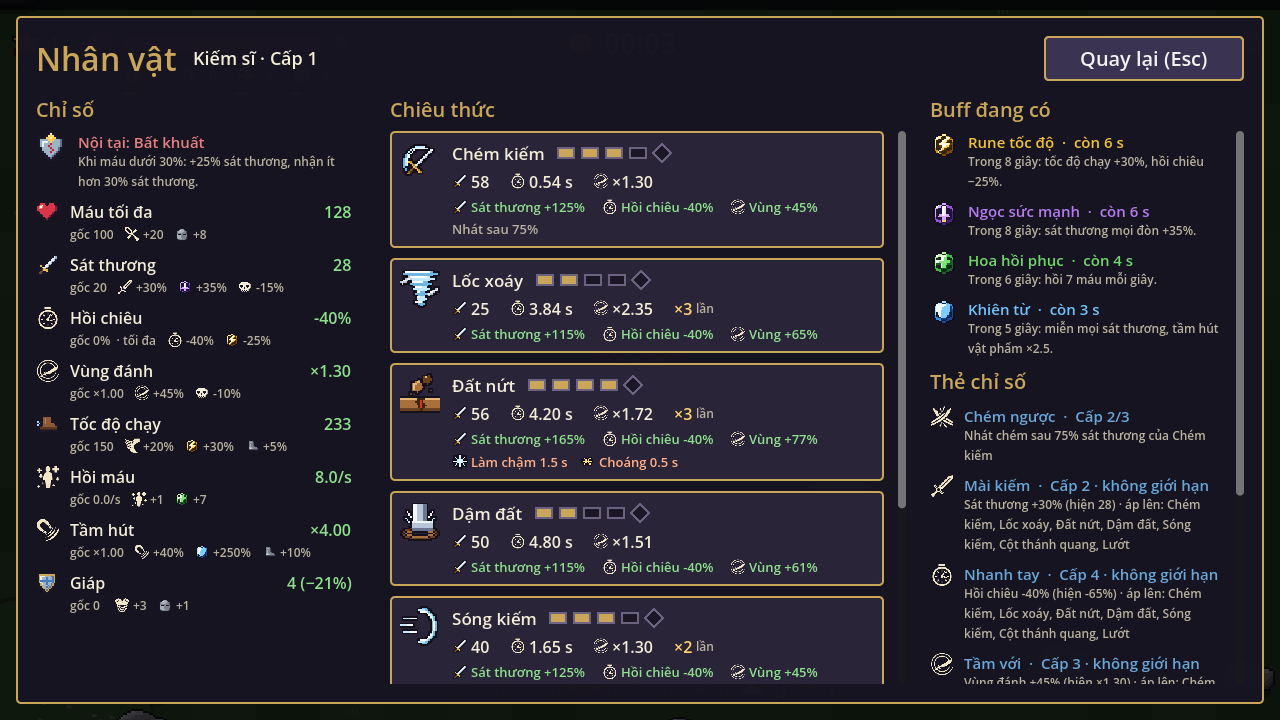
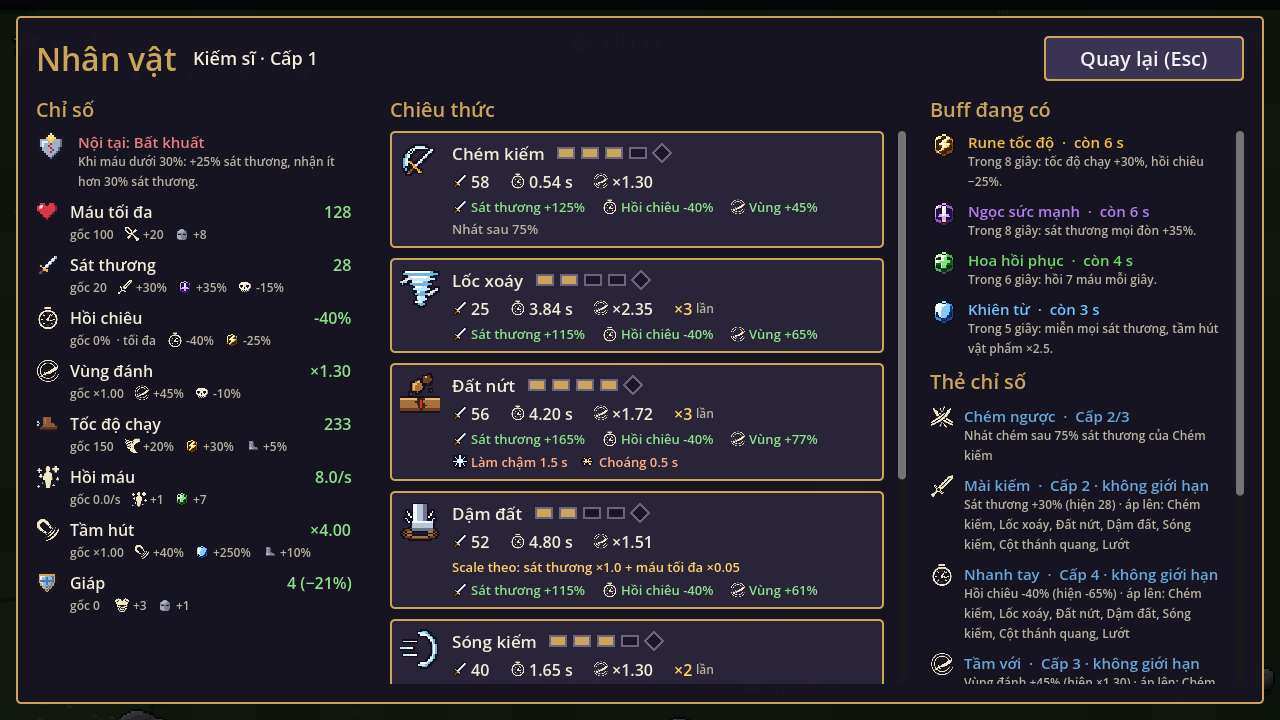
feat(balance): skills can scale on any stat ("scale")
User 2026-11-21: skills should scale on damage, armor, hp or speed,
not only their own numbers (after Brotato's per-weapon scaling). A
skill's "scale" {stat: coefficient} sums stat x coefficient as its base
damage before its own cards; without it, damage x damage_mul as before.
First set: Dậm đất +5% max hp, Cột thánh quang +1 per armor, Lướt
+0.03 per move speed; Băng ngục +1 per armor, Bão tuyết +4% max hp.
The character sheet shows "Scale theo: ..." under such skills.

Verified: gamekit test: 392 passed, 0 failed (skill_scale_test failed before); ui-shots 05c-character viewed
Design: production/roadmap.md (Yêu cầu 2026-11-21 đợt 2, item 2)

Changed region(s): [[0.3125, 0.7639, 0.6875, 0.9472], [0.6875, 0.6722, 0.7188, 0.7028]]

diff --git a/production/roadmap.md b/production/roadmap.md
@@ -231,10 +231,10 @@ không giới hạn + bảng tỉ lệ (`c05a9f8`), 4 thử thách dễ hơn + T
 
 **Việc lớn (tham khảo ≥ 2 game cùng thể loại → tài liệu thiết kế → code theo lát):**
 
-1. **Cơ chế giáp.** Hiện giáp chỉ là trừ phẳng (`armor`: mỗi đòn trừ N, tối thiểu 1; thẻ Da thép / Áo phép +2,
+1. **Cơ chế giáp.** ✅ 2026-11-21 (`21bc90f`, `design/armor.md`): giáp % kiểu Brotato. Còn: xuyên giáp của quái/boss. Trước đó giáp chỉ là trừ phẳng (`armor`: mỗi đòn trừ N, tối thiểu 1; thẻ Da thép / Áo phép +2,
    đồ). Cần thiết kế: giáp theo tỉ lệ (vd. giảm % = giáp/(giáp+K)) hay phẳng, xuyên giáp của quái/boss, giáp từ
    trang bị và cây kỹ năng, hiện trên bảng Nhân vật. Hỏi người dùng nếu tham khảo không chốt được.
-2. **Hệ thống scale theo chỉ số.** Mỗi chiêu khai báo nó scale theo chỉ số nào (sát thương, giáp, máu tối đa,
+2. **Hệ thống scale theo chỉ số.** Lát 1 ✅ 2026-11-21: `"scale"` trong skills, 5 chiêu scale theo máu/giáp/tốc độ, bảng Nhân vật + dashboard ghi "Scale theo". Còn: mở rộng cho mọi chiêu, thẻ/đồ theo lối xây dựng. Mỗi chiêu khai báo nó scale theo chỉ số nào (sát thương, giáp, máu tối đa,
    tốc độ chạy, tầm hút…) với hệ số riêng, ví dụ `"scale": {"damage": 1.3, "armor": 0.5}`; vẫn giữ chỉ số riêng
    của chiêu (`skill_damage.<id>`). Kéo theo: thẻ/đồ có ý nghĩa cho nhiều lối xây dựng (kiếm sĩ trâu scale giáp,
    pháp sư scale tốc độ…), bảng Nhân vật ghi "scale theo", dashboard hiện cột này. Tham khảo: Brotato (chỉ số
